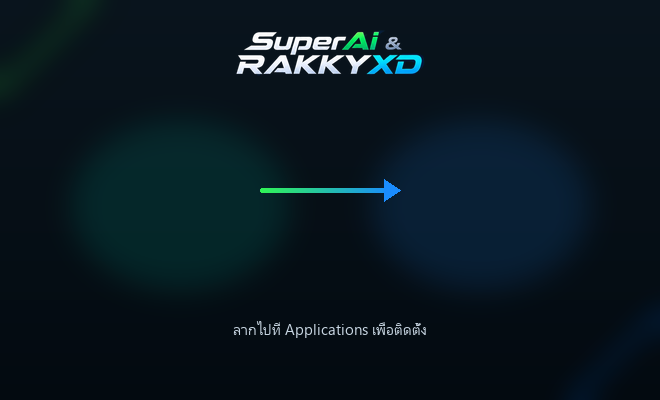
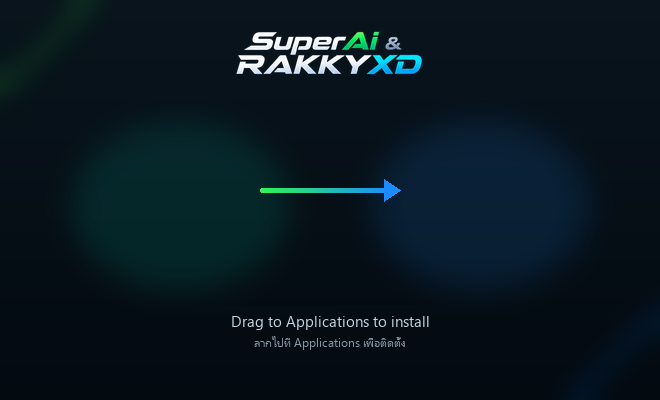
fix(i18n): make English the app's first language

Changed region(s): [[0.3333, 0.78, 0.6667, 0.87]]

diff --git a/packages/desktop/installer/installer-text.js b/packages/desktop/installer/installer-text.js
@@ -1,4 +1,4 @@
-// Installer wording in each language the app supports. Loaded before installer.js.
+// Installer wording: English (the default) and Thai. Loaded before installer.js.
 window.INSTALLER_TEXT = {
   en: {
     title: "Install SuperAi & RAKKYXD", minimize: "Minimize", close: "Close the installer", language: "Language",
@@ -27,33 +27,5 @@ window.INSTALLER_TEXT = {
     done: "พร้อมใช้งานแล้ว", doneLead: "ติดตั้ง SuperAi & RAKKYXD {version} เรียบร้อย เปิดได้จาก Start Menu", doneDesktop: " หรือทางลัดบนเดสก์ท็อป",
     open: "เปิด SuperAi & RAKKYXD", finish: "ปิด", nextUpdate: "อัปเดตครั้งต่อไปกดปุ่ม “อัปเดตโปรแกรม” ในแอปได้เลย ไม่ต้องติดตั้งใหม่",
     failed: "ติดตั้งไม่สำเร็จ", retry: "ลองอีกครั้ง",
-  },
-  ja: {
-    title: "SuperAi & RAKKYXD のインストール", minimize: "最小化", close: "インストーラーを閉じる", language: "言語",
-    welcome: "すべての AI を<br />ひとつのウィンドウに", welcomeUpdate: "現在のバージョンに<br />上書きインストール",
-    lead: "Claude、ChatGPT、Antigravity、OpenCode、Freebuff が Agent・Code・Chat モードで連携します。",
-    installTo: "インストール先", change: "変更", desktop: "デスクトップにショートカットを作成", launch: "インストール完了後にアプリを開く",
-    usage: "匿名のユーザー数を送信",
-    privacyNote: "送信するのはランダムな ID、バージョン、OS のみです。メッセージ、ファイル、アカウントは送信しません。後から設定でオフにできます ·",
-    privacy: "プライバシーポリシー", install: "インストール", update: "このバージョンに更新",
-    meta: "バージョン {version} · 必要な容量 {size}", free: " · 空き {size}", noSpace: " · 空き容量が不足しています",
-    installing: "インストール中", copy: "アプリのファイルをコピー", shortcuts: "ショートカットを作成", register: "設定 → アプリに登録",
-    done: "使用できます", doneLead: "SuperAi & RAKKYXD {version} のインストールが完了しました。スタートメニューから開けます", doneDesktop: "（デスクトップのショートカットからも開けます）",
-    open: "SuperAi & RAKKYXD を開く", finish: "閉じる", nextUpdate: "次回からはアプリ内の「アプリを更新」を押すだけです。再インストールは不要です。",
-    failed: "インストールに失敗しました", retry: "もう一度試す",
-  },
-  zh: {
-    title: "安装 SuperAi & RAKKYXD", minimize: "最小化", close: "关闭安装程序", language: "语言",
-    welcome: "你的所有 AI<br />尽在一个窗口", welcomeUpdate: "覆盖安装<br />当前版本",
-    lead: "Claude、ChatGPT、Antigravity、OpenCode 和 Freebuff 在 Agent、Code 和 Chat 模式中协同工作。",
-    installTo: "安装位置", change: "更改", desktop: "创建桌面快捷方式", launch: "安装完成后打开程序",
-    usage: "发送匿名用户统计",
-    privacyNote: "只发送随机编号、版本和操作系统，不发送消息、文件或账号。之后可在设置中关闭 ·",
-    privacy: "隐私政策", install: "安装", update: "更新到此版本",
-    meta: "版本 {version} · 需要 {size}", free: " · 可用 {size}", noSpace: " · 空间不足",
-    installing: "正在安装", copy: "复制程序文件", shortcuts: "创建快捷方式", register: "在 设置 → 应用 中注册",
-    done: "可以使用了", doneLead: "SuperAi & RAKKYXD {version} 已安装完成，可从开始菜单打开", doneDesktop: "，或使用桌面快捷方式",
-    open: "打开 SuperAi & RAKKYXD", finish: "关闭", nextUpdate: "以后更新只需在程序中点击“更新程序”，无需重新安装。",
-    failed: "安装未成功", retry: "再试一次",
   },
 };

diff --git a/packages/studio/server/CliChat.ts b/packages/studio/server/CliChat.ts
@@ -318,7 +318,7 @@ export function chatParser(agent: string, prefix: string, options: ChatParserOpt
           // `opencode run` rejects an interactive permission request itself; its error text
           // says "the user rejected" even though no approval prompt reached our chat UI.
           const shownOutput = state.status === 'error' && output && /the user rejected permission to use this specific tool call/i.test(output)
-            ? tr("OpenCode ปฏิเสธคำขอสิทธิ์ในโหมดแชตโดยไม่มีปุ่มให้ตอบในโปรแกรม ตรวจการตั้งค่าสิทธิ์ของ OpenCode หรือใช้ Terminal เพื่อตอบคำขอ") : output;
+            ? openCodeRefusal() : output;
           return { ...conversation, items: [{ id: `${prefix}-${part.id || part.callID}`, kind: "tool", tool: toolKind(name),
             title: typeof state.title === "string" && state.title ? state.title : toolTitle(name, state.input), output: shownOutput,
             status: state.status === "error" ? "failed" : state.status === "completed" ? "done" : "running" }] };
@@ -576,6 +576,9 @@ interface Chat extends Omit<ChatSnapshot, "queued"> {
 }
 export interface ChatFork { items: ChatItem[]; turns: number; seed: string; }
 export interface ChatRequest { accountId?: string; agent: string; cwd: string; text: string; draftText?: string; model?: string; effort?: string; attachments?: string[]; skillId?: string; permission?: ChatPermission; projectContext?: ProjectContext; responseStyle?: ResponseStyle; /** Summaries of other rooms this message continues from (`@room` in the composer). */ handoff?: string; /** Internal: pre-resolved by sendAsync so Electron's main thread never blocks. */ resolvedText?: string; /** Internal: pre-created asynchronously by sendAsync (`null` = skipped). */ checkpoint?: Checkpoint | null; }
+
+/** Shown in place of `opencode run`'s own refusal text; also how a refused tool call is recognised later. */
+const openCodeRefusal = () => tr("OpenCode ปฏิเสธคำขอสิทธิ์ในโหมดแชตโดยไม่มีปุ่มให้ตอบในโปรแกรม ตรวจการตั้งค่าสิทธิ์ของ OpenCode หรือใช้ Terminal เพื่อตอบคำขอ");
 
 export class CliChatManager {
   private chats = new Map<string, Chat>();
@@ -998,7 +1001,7 @@ export class CliChatManager {
       // `opencode run` refuses permission requests itself and then exits 0 without an answer: say why.
       const silent = agent === 'opencode' && !openCodeAsk && code === 0 && !chat.cancelled && !failed && !timeoutProblem
         && !chat.items.some((i) => i.kind === 'assistant' && i.id.startsWith(`${prefix}-`) && i.text.trim());
-      const toolRejected = chat.items.some((i) => i.kind === 'tool' && i.id.startsWith(`${prefix}-`) && !!i.output?.startsWith('OpenCode ปฏิเสธคำขอสิทธิ์'));
+      const toolRejected = chat.items.some((i) => i.kind === 'tool' && i.id.startsWith(`${prefix}-`) && i.output === openCodeRefusal());
       const ignoreExit = ignoredStaleError && agent === "antigravity" && !timeoutProblem;
       finish(timeoutProblem || (silent ? openCodeNoAnswer(rejections, toolRejected) : code === 0 || chat.cancelled || ignoreExit ? undefined : cliFailure(agent, request.model || "", errors, "", code, accountId)));
     };

diff --git a/packages/studio/server/CrossReviewManager.ts b/packages/studio/server/CrossReviewManager.ts
@@ -6,7 +6,7 @@ import { Seat, validateSeat } from './Providers.js';
 import { CliProvider } from './CliProvider.js';
 import { LocalProvider } from './AgentRunManager.js';
 import { createProvider, LLMMessage } from '@superai-rakkyxd/core';
-import { tr } from './i18n.js';
+import { replyLanguageRule, tr } from './i18n.js';
 
 const execAsync = promisify(execFile);
 
@@ -275,22 +275,22 @@ export class CrossReviewManager {
     const warnings = review.issues.filter(i => i.severity === 'warning');
     const suggestions = review.issues.filter(i => i.severity === 'suggestion');
 
-    let prompt = `[AI Cross-Review จาก ${review.reviewer.name}]\n` +
-      `ผลการตรวจทานโค้ด (คะแนนความปลอดภัย: ${review.score}/100, สถานะ: ${review.verdict})\n` +
-      `สรุป: ${review.summary}\n\n` +
-      `กรุณาแก้ไขปัญหาตามผลการตรวจทานดังนี้:\n`;
+    let prompt = `[AI Cross-Review by ${review.reviewer.name}]\n` +
+      `Code review result (safety score: ${review.score}/100, verdict: ${review.verdict})\n` +
+      `Summary: ${review.summary}\n\n` +
+      `Please fix the problems this review found:\n`;
 
     const allIssues = [...criticals, ...warnings, ...suggestions];
     allIssues.forEach((issue, idx) => {
       prompt += `\n${idx + 1}. [${issue.severity.toUpperCase()}] ${issue.title}`;
-      if (issue.file) prompt += ` (ไฟล์: ${issue.file}${issue.line ? `:${issue.line}` : ''})`;
-      prompt += `\n   รายละเอียด: ${issue.description}`;
+      if (issue.file) prompt += ` (file: ${issue.file}${issue.line ? `:${issue.line}` : ''})`;
+      prompt += `\n   Details: ${issue.description}`;
       if (issue.suggestedFix) {
-        prompt += `\n   แนวทางแก้ไขที่แนะนำ:\n\`\`\`\n${issue.suggestedFix}\n\`\`\``;
+        prompt += `\n   Suggested fix:\n\`\`\`\n${issue.suggestedFix}\n\`\`\``;
       }
     });
 
-    prompt += `\n\nโปรดแก้ไขไฟล์โค้ดตามคำแนะนำข้างต้นให้เรียบร้อยและรันการทดสอบเพื่อให้แน่ใจว่าไม่มีข้อผิดพลาด`;
+    prompt += `\n\nFirst check that each finding is real by reading the code. Fix the real ones, say briefly why you skip any that are not, then run the tests to make sure nothing is broken. ${replyLanguageRule()}`;
     return prompt;
   }
 }

diff --git a/packages/studio/client/src/i18n.ts b/packages/studio/client/src/i18n.ts
@@ -9,9 +9,10 @@ export interface LanguageOption {
   flag: string;
 }
 
+// English is the app's first language, Thai the second.
 export const SUPPORTED_LANGUAGES: LanguageOption[] = [
-  { code: 'th', label: 'Thai', nativeName: 'ภาษาไทย', flag: '🇹🇭' },
   { code: 'en', label: 'English', nativeName: 'English', flag: '🇬🇧' },
+  { code: 'th', label: 'Thai', nativeName: 'ภาษาไทย', flag: '🇹🇭' },
   { code: 'ja', label: 'Japanese', nativeName: '日本語', flag: '🇯🇵' },
   { code: 'zh', label: 'Chinese', nativeName: '简体中文', flag: '🇨🇳' },
 ];
@@ -571,8 +572,8 @@ export const translations: Record<Locale, Record<string, string>> = {
 };
 
 /**
- * Detect the initial language from localStorage or navigator.
- * Thai OS -> 'th', Japanese OS -> 'ja', Chinese OS -> 'zh', all other global OS -> 'en'.
+ * The window's first language: the one saved in this window, else (in the desktop app) the one the
+ * app starts with, which is the installer's choice or English. A plain browser starts in English.
  */
 export function getInitialLocale(): Locale {
   // Outside a browser (tests and scripts) the text stays as written, in Thai.
@@ -582,9 +583,10 @@ export function getInitialLocale(): Locale {
     if (saved && (saved === 'th' || saved === 'en' || saved === 'ja' || saved === 'zh')) {
       return saved;
     }
-    // First run: the computer's language when the app has it, otherwise English for everyone else.
-    for (const language of navigator.languages?.length ? navigator.languages : [navigator.language]) {
-      const code = String(language || '').toLowerCase().slice(0, 2);
+    // The desktop app starts Chromium in the chosen language (packages/desktop/app.mjs), so there
+    // navigator.language is that choice, never just the computer's language.
+    if (window.superai?.isDesktop) {
+      const code = String(navigator.language || '').toLowerCase().slice(0, 2);
       if (code === 'th' || code === 'en' || code === 'ja' || code === 'zh') return code;
     }
   } catch {}
@@ -627,7 +629,7 @@ export function dateLocale(): string {
  * Cycle to the next supported language (convenient for 1-click header switcher)
  */
 export function cycleLocale(): Locale {
-  const order: Locale[] = ['th', 'en', 'ja', 'zh'];
+  const order: Locale[] = ['en', 'th', 'ja', 'zh'];
   const idx = order.indexOf(currentLocale);
   const next = order[(idx + 1) % order.length];
   setLocale(next);

diff --git a/packages/desktop/installer/installer.js b/packages/desktop/installer/installer.js
@@ -9,12 +9,12 @@ let info = null;
 let target = "";
 let installedExe = "";
 
-// The installer's own language: the one chosen earlier in the app, else the computer's, else English.
+// The installer's own language: English first; Thai when it was chosen earlier (here or in the app).
+// The computer's language is not used, so English stays the default everywhere.
 const TEXT = window.INSTALLER_TEXT;
-let lang = (() => {
-  for (const code of navigator.languages || [navigator.language]) { const short = String(code || "").slice(0, 2).toLowerCase(); if (TEXT[short]) return short; }
-  return "en";
-})();
+let lang = "en";
+// A Japanese or Chinese choice made in the app is kept unless the person picks a language here.
+let picked = false;
 const T = (key, values = {}) => (TEXT[lang][key] ?? TEXT.en[key] ?? key).replace(/\{(\w+)\}/g, (_, name) => values[name] ?? "");
 function applyLanguage() {
   document.documentElement.lang = lang;
@@ -110,7 +110,7 @@ $("install").addEventListener("click", async () => {
   $("percent").textContent = "0";
   setState("installing");
   try {
-    const result = await api.install({ dir: target, desktop: $("desktop").checked, usage: $("usage").checked, locale: lang });
+    const result = await api.install({ dir: target, desktop: $("desktop").checked, usage: $("usage").checked, locale: picked || !info?.locale || TEXT[info.locale] ? lang : undefined });
     installedExe = result.exe;
     $("done-lead").textContent = T("doneLead", { version: info ? `v${info.version}` : "" });
     $("done-desktop").hidden = !$("desktop").checked;
@@ -132,7 +132,7 @@ document.querySelectorAll("[data-window]").forEach((button) =>
   button.addEventListener("click", () => void api.window(button.dataset.window)),
 );
 
-$("language").addEventListener("change", (event) => { lang = event.target.value; applyLanguage(); });
+$("language").addEventListener("change", (event) => { lang = event.target.value; picked = true; applyLanguage(); });
 applyLanguage();
 setOrbit(0);
 void load();

diff --git a/packages/studio/server/SelfHealingManager.ts b/packages/studio/server/SelfHealingManager.ts
@@ -4,7 +4,7 @@ import fs from 'node:fs/promises';
 import fsSync from 'node:fs';
 import path from 'node:path';
 import { cliEnv, findExecutable } from './CliCatalog.js';
-import { tr } from './i18n.js';
+import { replyLanguageRule, tr } from './i18n.js';
 
 const execAsync = promisify(execFile);
 
@@ -176,10 +176,10 @@ export class SelfHealingManager {
       }
 
       // Verification failed
-      const fixPrompt = `[Self-Healing Loop: ครั้งที่ ${attempt}/${maxAttempts}]\n` +
-        `คำสั่งตรวจสอบ (${command}) ไม่ผ่าน (Exit Code ${verification.exitCode})\n` +
-        `สรุปข้อผิดพลาดที่พบ:\n\`\`\`\n${verification.failureSummary}\n\`\`\`\n\n` +
-        `กรุณาตรวจสอบสาเหตุของข้อผิดพลาดข้างต้น แก้ไขไฟล์โค้ดที่เกี่ยวข้อง และตรวจสอบให้แน่ใจว่าการทดสอบจะสามารถรันผ่านได้`;
+      const fixPrompt = `[Self-Healing Loop: attempt ${attempt}/${maxAttempts}]\n` +
+        `The check command (${command}) failed (exit code ${verification.exitCode})\n` +
+        `Failure summary:\n\`\`\`\n${verification.failureSummary}\n\`\`\`\n\n` +
+        `Find the root cause of the error above, fix the related code files, and make sure the tests will pass. Do not delete or weaken tests to make them pass. ${replyLanguageRule()}`;
 
       attempts.push({
         attempt,

diff --git a/packages/studio/server/i18n.ts b/packages/studio/server/i18n.ts
@@ -16,10 +16,11 @@ const TEXT: Record<Locale, Record<string, string> | null> = { th: null, en, ja, 
 const isLocale = (value: unknown): value is Locale => typeof value === "string" && Object.prototype.hasOwnProperty.call(TEXT, value);
 const file = () => path.join(process.env.SUPERAI_DATA_DIR || path.join(os.homedir(), ".opencode-multi"), "locale.txt");
 
-// Until the window reports its choice: the computer's language when supported, otherwise English.
-// SUPERAI_LANG (the same switch the desktop app takes) wins, e.g. for tests that check the Thai text.
-const system = String(process.env.SUPERAI_LANG || Intl.DateTimeFormat().resolvedOptions().locale || "").toLowerCase().slice(0, 2);
-let locale: Locale = system === "th" || system === "ja" || system === "zh" ? system : "en";
+// Until the window reports its choice: English, the app's first language (the computer's language
+// is not used). A language saved earlier wins; SUPERAI_LANG (the same switch the desktop app takes)
+// sets it for a run, e.g. for tests that check the Thai text.
+const requested = String(process.env.SUPERAI_LANG || "").toLowerCase().slice(0, 2);
+let locale: Locale = requested === "th" || requested === "ja" || requested === "zh" ? requested : "en";
 try {
   const saved = fs.readFileSync(file(), "utf8").trim();
   if (isLocale(saved)) locale = saved;

diff --git a/packages/studio/server/ResponseStyle.ts b/packages/studio/server/ResponseStyle.ts
@@ -4,7 +4,7 @@ export type ResponseStyle = typeof RESPONSE_STYLES[number];
 export const RESPONSE_STYLE_LABEL: Record<ResponseStyle, string> = { normal: 'ปกติ', concise: 'สั้นและตรงประเด็น', explanatory: 'อธิบายพร้อมตัวอย่าง' };
 export function responseStyle(value: unknown): ResponseStyle {
   if (value === undefined) return 'normal';
-  if (!RESPONSE_STYLES.includes(value as ResponseStyle)) throw new Error("รูปแบบคำตอบไม่ถูกต้อง");
+  if (!RESPONSE_STYLES.includes(value as ResponseStyle)) throw new Error("Invalid response style");
   return value as ResponseStyle;
 }
 export function styleGuidance(style: ResponseStyle = 'normal'): string {

diff --git a/packages/desktop/installer/index.html b/packages/desktop/installer/index.html
@@ -10,7 +10,7 @@
   <header class="titlebar">
     <span class="titlebar-name" data-t="title">Install SuperAi &amp; RAKKYXD</span>
     <select class="language" id="language" data-t-label="language" aria-label="Language">
-      <option value="en">English</option><option value="th">ภาษาไทย</option><option value="ja">日本語</option><option value="zh">简体中文</option>
+      <option value="en">English</option><option value="th">ภาษาไทย</option>
     </select>
     <div class="window-buttons">
       <button type="button" data-window="minimize" data-t-label="minimize" aria-label="Minimize"><svg viewBox="0 0 12 12"><path d="M2 6h8" /></svg></button>

diff --git a/packages/studio/test/cross-review.test.ts b/packages/studio/test/cross-review.test.ts
@@ -56,7 +56,7 @@ Here is my review:
 
   // 2. formatApplyPrompt formats issues clearly for author agent
   const applyPrompt = manager.formatApplyPrompt(review);
-  assert.match(applyPrompt, /AI Cross-Review จาก Codex Reviewer/);
+  assert.match(applyPrompt, /AI Cross-Review by Codex Reviewer/);
   assert.match(applyPrompt, /CRITICAL/);
   assert.match(applyPrompt, /Missing null check/);
   assert.match(applyPrompt, /const token = req\.headers\.authorization/);

diff --git a/packages/studio/server/Questions.ts b/packages/studio/server/Questions.ts
@@ -32,7 +32,7 @@ export function extractJson(raw: string): any {
         return JSON.parse(text.slice(start, end + 1));
       } catch {}
   }
-  throw new Error("ไม่พบ JSON");
+  throw new Error("No JSON found");
 }
 
 export const MAX_QUESTIONS = 4;

diff --git a/scripts/brand/make-icons.py b/scripts/brand/make-icons.py
@@ -154,10 +154,12 @@ def dmg_background(scale: int) -> Image.Image:
     wm = word.copy()
     wm.thumbnail((190 * scale, 60 * scale), Image.LANCZOS)
     bg.alpha_composite(wm, ((w - wm.width) // 2, 30 * scale))
-    font = ImageFont.truetype("C:/Windows/Fonts/LeelawUI.ttf", 15 * scale)
-    text = "ลากไปที่ Applications เพื่อติดตั้ง"
-    tw = d.textlength(text, font=font)
-    d.text(((w - tw) / 2, 318 * scale), text, font=font, fill=(200, 214, 226, 255))
+    # English first (the app's first language), Thai second.
+    for text, size, top, fill in (("Drag to Applications to install", 15, 310, (200, 214, 226, 255)),
+                                  ("ลากไปที่ Applications เพื่อติดตั้ง", 12, 334, (138, 154, 168, 255))):
+        font = ImageFont.truetype("C:/Windows/Fonts/LeelawUI.ttf", size * scale)
+        tw = d.textlength(text, font=font)
+        d.text(((w - tw) / 2, top * scale), text, font=font, fill=fill)
     return bg.convert("RGB")
 
 
